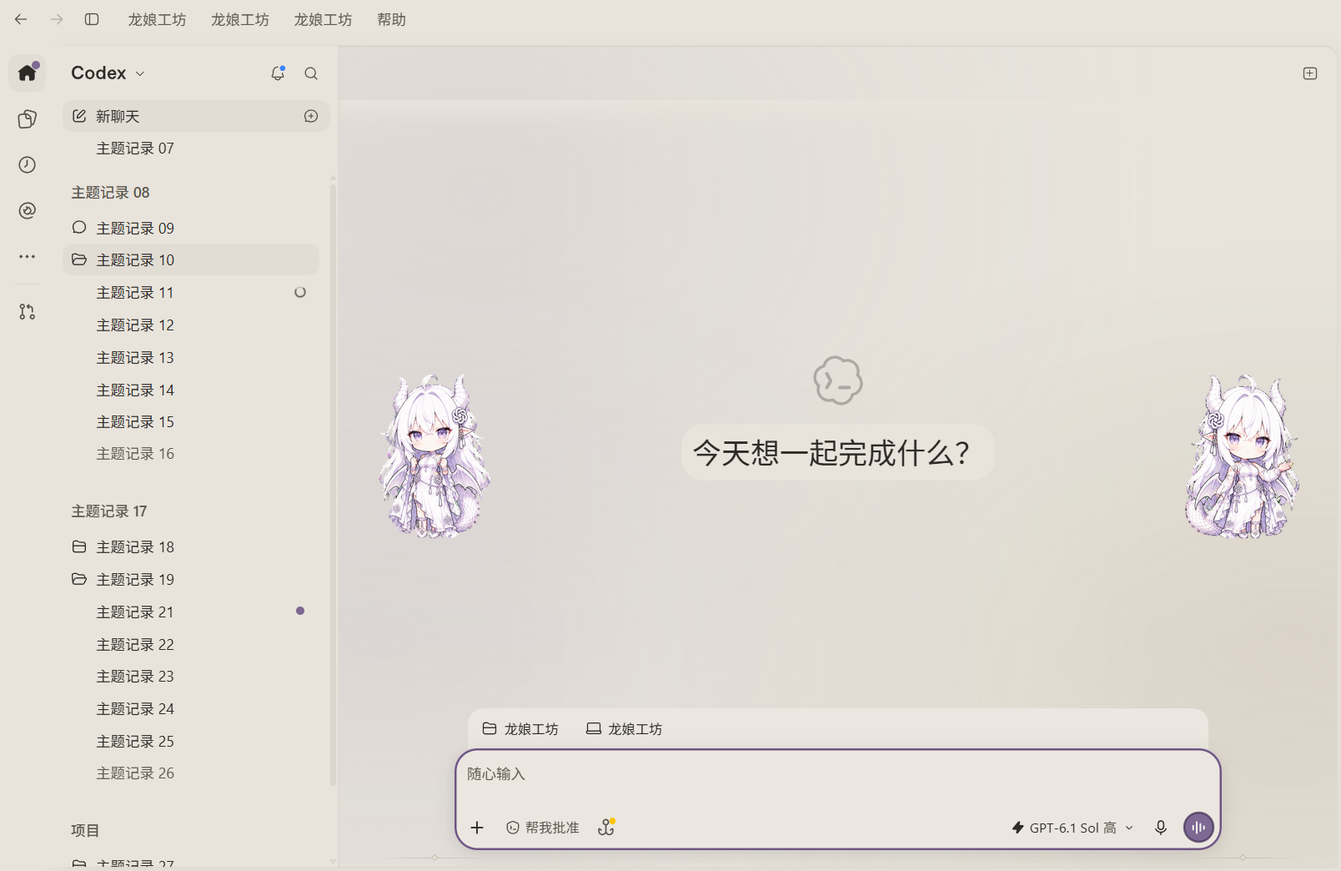
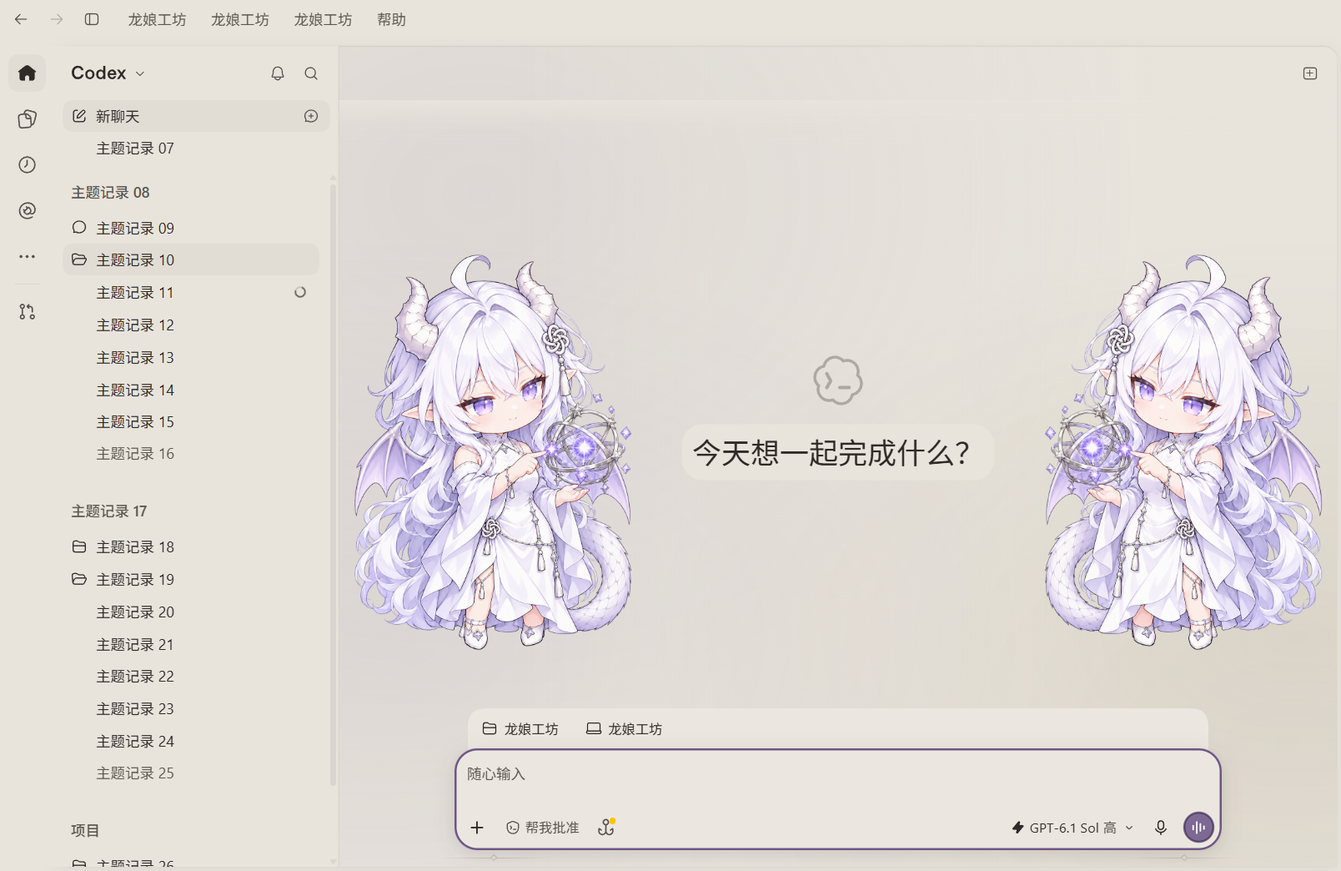
feat: adopt licensed HD chibi artwork with inward composition

Changed region(s): [[0.7774, 0.2759, 0.995, 0.7663], [0.2488, 0.2759, 0.4664, 0.7663]]

diff --git a/src/atelier.css b/src/atelier.css
@@ -36,9 +36,9 @@ html[data-dragon-atelier] [data-da-part=main] pre {background-color:var(--da-cod
 }
 #dragon-atelier-scene * {pointer-events:none !important;}
 #dragon-atelier-scene::after {content:'';position:absolute;inset:0;pointer-events:none;background:linear-gradient(90deg,transparent 18%,color-mix(in srgb,var(--da-background) 18%,transparent) 38%,color-mix(in srgb,var(--da-background) 18%,transparent) 62%,transparent 82%);}
-#dragon-atelier-scene .da-dragon {position:absolute;width:var(--da-character-width,192px);aspect-ratio:192/208;background-repeat:no-repeat;background-size:800% 1100%;background-position:0 0;--da-art-opacity:.96;--da-art-thread-opacity:.78;image-rendering:auto;filter:none;opacity:var(--da-art-opacity);}
+#dragon-atelier-scene .da-dragon {position:absolute;width:var(--da-character-width,280px);aspect-ratio:941/1672;background-repeat:no-repeat;background-size:100% 100%;background-position:center;--da-art-opacity:.96;--da-art-thread-opacity:.78;image-rendering:auto;filter:none;opacity:var(--da-art-opacity);}
 
-#dragon-atelier-scene .da-right {transform:scaleX(-1);background-position:28.5714285714% 60%;}
+#dragon-atelier-scene .da-right {transform:scaleX(-1);}
 /* Adult companions: mature on the left, younger on the right; consistent rendering. */
 #dragon-atelier-scene[data-da-edition=portrait] .da-dragon {aspect-ratio:941/1672;background-size:100% 100%;background-position:center;--da-art-opacity:.96;--da-art-thread-opacity:.80;transform:none;filter:drop-shadow(0 1px 0 var(--da-characterOutline));mask-image:linear-gradient(0deg,transparent,#000 3%);}
 html[data-da-mode=light] #dragon-atelier-scene[data-da-edition=portrait] .da-dragon {--da-art-opacity:.96;--da-art-thread-opacity:.80;}

diff --git a/src/renderer.js b/src/renderer.js
@@ -90,7 +90,7 @@
     // Natural adult-height difference; no exaggerated giant/small hierarchy.
     const nativeCap=portrait?Math.min(...CONFIG.pixelHeights)/devicePixelRatio:Infinity;
     const portraitHeight=portrait?Math.min(box.height*(home?.87:.66),box.width*.37/Math.max(...CONFIG.aspects),nativeCap):0;
-    const qWidth=Math.min(home?280:240,box.width*.32,box.height*(home?.60:.46)*CONFIG.cellAspect,Math.max(0,readingFloor-24)*CONFIG.cellAspect,CONFIG.cellPixels/devicePixelRatio);
+    const qWidth=Math.min(home?300:260,box.width*.32,box.height*(home?.60:.46)*CONFIG.cellAspect,Math.max(0,readingFloor-24)*CONFIG.cellAspect,CONFIG.cellPixels/devicePixelRatio);
     const heights=portrait?[portraitHeight,portraitHeight*.94]:[qWidth/CONFIG.cellAspect,qWidth/CONFIG.cellAspect];
     const widths=portrait?CONFIG.aspects.map((aspect,i)=>heights[i]*aspect):[qWidth,qWidth];
     // Chibi faces sit along the chat's horizontal middle, wholly above input.

diff --git a/tests/browser-regression.py b/tests/browser-regression.py
@@ -37,7 +37,7 @@ for edition in ['q','portrait']:
   if edition=='q':
    composer_top=page.locator('[data-composer-surface-variant]:visible').first.bounding_box()['y']
    assert max(f['bottom'] for f in figures)<=composer_top-27,'Chibi artwork must clear the composer visually'
-  assert page.locator('.da-left').evaluate('e=>getComputedStyle(e).backgroundImage')!=page.locator('.da-right').evaluate('e=>getComputedStyle(e).backgroundImage') if edition=='portrait' else page.locator('.da-left').evaluate('e=>getComputedStyle(e).backgroundPosition')!=page.locator('.da-right').evaluate('e=>getComputedStyle(e).backgroundPosition')
+  assert page.locator('.da-left').evaluate('e=>getComputedStyle(e).backgroundImage')!=page.locator('.da-right').evaluate('e=>getComputedStyle(e).backgroundImage') if edition=='portrait' else page.locator('.da-left').evaluate('e=>getComputedStyle(e).transform')=='none' and page.locator('.da-right').evaluate('e=>getComputedStyle(e).transform')=='matrix(-1, 0, 0, 1, 0, 0)'
   idle=page.evaluate('window.__rafCount');page.wait_for_timeout(350)
   assert page.evaluate('window.__rafCount')-idle<=1,'Owned mutations caused a continuous repaint loop'
   assert page.evaluate('getComputedStyle(document.body).getPropertyValue("--color-text-danger")')==color
@@ -68,7 +68,7 @@ for edition in ['q','portrait']:
   assert page.evaluate('window.__DRAGON_ATELIER__.status.context')=='thread'
   assert page.evaluate('window.__DRAGON_ATELIER__.status.characters')==2
   page.emulate_media(reduced_motion='reduce');page.wait_for_timeout(100)
-  assert page.locator('.da-dragon').first.evaluate("e=>getComputedStyle(e).backgroundSize")==('100% 100%' if edition=='portrait' else '800% 1100%')
+  assert page.locator('.da-dragon').first.evaluate("e=>getComputedStyle(e).backgroundSize")=='100% 100%'
   assert page.locator('#dragon-atelier-scene').evaluate('e=>e.inert') is True
   # Settings keep color roles while artwork hides.
   page.evaluate("()=>{const s=document.createElement('section');s.setAttribute('data-settings-panel-slug','appearance');s.style.cssText='width:400px;height:200px';document.body.append(s)}")
@@ -100,9 +100,9 @@ for edition in ['q','portrait']:
    assert scaled.evaluate('window.__DRAGON_ATELIER__.status.devicePixelRatio')==scale
    boxes=scaled.locator('.da-dragon').evaluate_all('els=>els.map(e=>({height:e.getBoundingClientRect().height,width:e.getBoundingClientRect().width}))')
    for box in boxes:
-    assert box['height']*scale<=1672+1 if edition=='portrait' else box['width']*scale<=192+1,'Artwork must not upscale beyond its native cell pixels'
+    assert box['height']*scale<=1672+1 and box['width']*scale<=941+1,'Artwork must not upscale beyond its native pixels'
    scaled.set_viewport_size({'width':850,'height':900});scaled.wait_for_timeout(100)
    assert scaled.evaluate('window.__DRAGON_ATELIER__.status.characters')==0
    scaled.evaluate('window.__DRAGON_ATELIER__.dispose()');context.close()
   browser.close()
-  print(json.dumps({'edition':edition,'fixtureChecks':['autoScheme','nativeStatusColor','narrowHide','chatBackgroundParent','nativeMenuTier','edgeControlClick','columnResize','staticDistinctPoses','idleObserver','cachedRouteVisibility','threadBackground','reducedMotion','inert','adultProportionsOrEqualQ','nativeInnerFrame','visiblePseudoPlaceholder','chibiInputClearance','settingsPalette','forcedColorsFallback','missingAnchorFallback','unsupportedHost','restore','localNavigationTextAlias','nativePixelCaps'],'deviceScaleFactors':[1,1.25,1.5,2],'passed':True}))
+  print(json.dumps({'edition':edition,'fixtureChecks':['autoScheme','nativeStatusColor','narrowHide','chatBackgroundParent','nativeMenuTier','edgeControlClick','columnResize','staticArtworkAndInwardQ','idleObserver','cachedRouteVisibility','threadBackground','reducedMotion','inert','adultProportionsOrEqualQ','nativeInnerFrame','visiblePseudoPlaceholder','chibiInputClearance','settingsPalette','forcedColorsFallback','missingAnchorFallback','unsupportedHost','restore','localNavigationTextAlias','nativePixelCaps'],'deviceScaleFactors':[1,1.25,1.5,2],'passed':True}))

diff --git a/docs/VALIDATION.md b/docs/VALIDATION.md
@@ -7,14 +7,14 @@
 - 根与自有区域 85 个绑定实测匹配，发送按钮 default/hover/active 视觉色通过；active 使用 CDP 强制伪类，没有点击发送。菜单进入时即获色表；设置保留配色且人物为 0。
 - 真实会话采用 flex-col-reverse，scrollTop 可为负。滚轮验收开始位置移至可滚范围中部，避免把触及边界判为卡死；两版、两模式实际鼠标滚轮与输入点击均通过，恢复原滚动位置。
 - 4 项色表测试，指定 9 个阅读表面的文字最低深 4.627:1 / 浅 4.592:1，功能边界/焦点最低深 3.837:1 / 浅 3.351:1。不是全客户端 WCAG 或全部像素认证。
-- 两版各 24 类浏览器回归：自动模式、原生语义、窄列、聊天首层舞台、菜单进入动画、边缘点击、侧栏挤占、静态不同姿态、空闲观察器、缓存路由、会话、减少动态效果、inert、自然成人差异或等大Q、内框、伪元素、Q输入空隙、设置、高对比度、缺失锚点、未知定位主区域、恢复、局部导航别名、原生像素上限。
+- 两版各 24 类浏览器回归：自动模式、原生语义、窄列、聊天首层舞台、菜单进入动画、边缘点击、侧栏挤占、静态立绘与Q朝内方向、空闲观察器、缓存路由、会话、减少动态效果、inert、自然成人差异或等大Q、内框、伪元素、Q输入空隙、设置、高对比度、缺失锚点、未知定位主区域、恢复、局部导航别名、原生像素上限。
 - 模拟 DPR1/1.25/1.5/2 均验证人物不超过原像素并在窄列隐藏。实际系统缩放与多显示器未逐项切换，不能把模拟称为实机多屏验收。
-- 用户否定的新生成 Q 已撤回，不构建或打包。Q 原图字节未改，单格192×208；125%时最大153.6 CSS px，没有靠插值放大冒充高清。正常两张941×1672透明衍生图来源、alpha、SHA256和提示词有记录。
+- 用户否定的新生成 Q 已撤回，不构建或打包。最新使用ApprenTice941×1672高清Q透明衍生，当前首页265.754 CSS px，CSS原向/镜像朝内；原图字节未改，旧192×208图集归档，不插值放大冒充高清。正常两张941×1672透明衍生图来源、alpha、SHA256和提示词有记录。
 - 最新预览临时替换文本节点后恢复，保留真实字体/表面/控件，逐张查看；匿名原始 API 请求、配置、账户资料、故障日志均不进入仓库或包。
 
 Opus 补充评审：授权项目 CSS、色表、匿名截图；首次长回复 max_tokens，A–G保留，第二次仅补齐H且正常 end_turn。原文已合并保存《可读性与双角色实施指导》。返回模型标识不能独立证明底层身份；边界对比度、CSS选择器、素材像素及用户审美反馈均由本地再次核验。
 
-限制：实际外观/通用设置未复现大块不透明近白面；用户补充主要指人物分辨率和锯齿，不能报告不明控件白底已彻底修复。原Q像素限制、正常生成图审美、未来客户端、全部语法高亮、长期内存、真实高对比度和多屏仍有未验收范围。历史桌面中心遮挡未复现，根因未确认。
+限制：实际外观/通用设置未复现大块不透明近白面；用户补充主要指人物分辨率和锯齿，不能报告不明控件白底已彻底修复。高清Q原像素级alpha边缘、正常生成图审美、未来客户端、全部语法高亮、长期内存、真实高对比度和多屏仍有未验收范围。历史桌面中心遮挡未复现，根因未确认。
 
 ---
 
@@ -37,7 +37,7 @@ Opus 补充评审：授权项目 CSS、色表、匿名截图；首次长回复 m
 
 ## 自动检查与素材
 
-- 每版 16 类浏览器行为回归通过：自动明暗、语义状态色、窄列/侧面板挤占退让、聊天内 z0 舞台、菜单层级、边缘控件点击、静态不同姿态、空闲无持续重绘、缓存旧路由、会话背景、减少动态效果、inert、缺失锚点、未知定位主区域降级、恢复。
+- 每版 16 类浏览器行为回归通过：自动明暗、语义状态色、窄列/侧面板挤占退让、聊天内 z0 舞台、菜单层级、边缘控件点击、静态立绘与Q朝内方向、空闲无持续重绘、缓存旧路由、会话背景、减少动态效果、inert、缺失锚点、未知定位主区域降级、恢复。
 - 3 项配色测试通过，并独立重算最终色值、核对 CSS 与 tokens 一致。深色正文/次要文字在定义表面最低 10.295 / 5.945，浅色最低 9.121 / 4.662；焦点色对面板 6.569 / 5.353。装饰边线不声明满足 3:1；未据此声称每个实际像素或全部原生控件已逐一测量。
 - Q 原始图集字节未变；正常立绘原图与透明成品均有来源、尺寸、SHA256。透明成品 RGBA、四角 alpha=0，白色人物区域保持不透明填色；做了背景处理，不声称像素完全一致。
 - 构建和包装使用明确白名单，私有 evidence、用户配置和认证材料不进入包。
@@ -90,3 +90,5 @@ Opus 补充评审：授权项目 CSS、色表、匿名截图；首次长回复 m
 ## 未验证范围
 
 macOS、Linux、其他 Codex 版本、不同缩放比例、多显示器、跨客户端升级、宽会话的实机双角色显示。新版本优先使用原生配色；角色节点不匹配时自动关闭。发布为 Beta，不承诺全版本兼容。
+
+本轮滚轮检查曾因固定500ms等待失败。关闭主题的对照同样出现延迟，最终原生/有主题均能滚动；一次CDP输入及观察序列总用时约6.0s/5.1s，包含协议与调用等待，不等于纯用户界面延迟测量。后续验收逐次读取实际位移，避开嵌套工具输出滚动区；功能检查不证明不存在性能问题，也不证明历史桌面遮挡已修复。

diff --git a/assets/GENERATED_PROMPTS.md b/assets/GENERATED_PROMPTS.md
@@ -1,6 +1,6 @@
 # 使用状态
 
-正常立绘两张为可选生成衍生素材；第三项 Q 图集已因用户反馈撤回，未进入构建、仓库成品或发行包。以下保留生成提示词以便追溯，生成像素数量不等于画质或审美认可。
+正常立绘两张为可选生成衍生素材；第三项Q图集已因用户反馈撤回，未进入构建、仓库成品或发行包。当前Q使用作者公开高清图的背景去除衍生，提示词在后半部分；第二次alpha精修未采用。以下保留生成提示词以便追溯，生成像素数量不等于画质或审美认可。
 
 # 2026-10-08 生成素材提示词
 
@@ -17,3 +17,11 @@ Use case: stylized-concept. Asset type: one transparent full-body character cuto
 ## 高清 Q 版两帧图集
 
 Use case: stylized-concept. Asset type: ONE transparent high-resolution two-frame static chibi sprite atlas for an elegant GPT dragon desktop theme. Create a wide horizontal landscape canvas, ideally 2048px wide by 1024px high. The atlas has exactly TWO equal-width invisible cells side by side: each cell contains one full-body super-deformed cute ADULT fantasy dragon-woman pose of the SAME character, no borders or visible dividers. Left cell: friendly composed open palm greeting toward the right; right cell: bright intelligent expression holding a small plain notebook and a pen and looking toward the left. Both poses have identical overall body and head scale, full bodies with all horns, tail and feet inside their own cell, center each precisely within each half, 6% clear transparent padding at cell edges, do not overlap cells. Small chibi bodies and larger heads are a stylized rendering of an adult character, not a child, no school clothing. Identity: snow-white long hair with lavender inner shading, curved ivory-gray segmented dragon horns, pointed ears, amethyst-violet eyes, a silver interwoven flower hair clasp, white and very pale lavender high-neck floor-length formal dress with restrained silver trim and small interwoven flower clasps at the waist, long draped sleeves, silver-white shoes, compact folded lavender dragon wings and a single light scaled dragon tail. Dress fully covers the body; elegant, helpful, no revealing styling. Match clean anime cel illustration, precise dark muted-violet linework with confident readable outside outline, crisp fine hair and face details, separate soft cool shadow planes in the white dress, high local contrast, delicate tasteful texture, restrained pastel violet accents. Artwork must be sharp at 220–260px display width per cell; avoid fuzzy upscaling, washed-out body opacity, fog, bloom, blur or flat white silhouettes. Output real alpha-transparent PNG, no white/black background, no checkerboard printed pattern, no floor or shadows, no text, captions, labels, logos or watermarks, no third character, no additional frames, no scenery.
+
+## Published HD chibi background removal (current)
+
+Use case: precise-object-edit. Edit target: the supplied ApprenTice ChatGPT-Chibi illustration. Create a true transparent RGBA cutout of ONLY the original chibi white-haired dragon girl and the small silver-purple armillary sphere she holds. Preserve the original character's beautiful compact round chibi proportions, exact face and violet eyes, silver-white hair locks, curled scaled gray-white horns, pointed ears, small lavender membrane wings, ONE white scaled tail, white formal dress, two interlaced knot ornaments, tassels, jewelry, shoes, hands and the existing pose. This is BACKGROUND REMOVAL, not a redesign. Remove the lavender backdrop, every background star/orbital line, ground shadow and all background glow. Keep solid pearl-white pixels of the character and opaque silver sphere rings; remove background visible in gaps between hair, wings, tail, hands and sphere rings. Clean smoothly antialiased alpha edges, no pale lavender rectangular fringe, no checkerboard painted into the image, no dark matte, no new outlines, no blur, no extra sharpen noise. Keep the original drawing's fine expressive linework and details. Entire horns, wings, both feet, tail tip and sphere in frame. Transparent background, no text, no watermark. Preserve native resolution and artwork framing; do not add anything.
+
+## Second alpha refinement (not used)
+
+Use case: precise-object-edit. Image 1 is the original high-resolution ApprenTice ChatGPT chibi artwork, definitive reference for ALL character drawing. Image 2 is a first transparent cutout attempt; use it only to see which background must disappear, NOT as a style reference. Deliver a refined TRUE RGBA transparent cutout with the exact same appealing face, round head and tiny body, dress, hair, scaled horns, small wings, single tail, silver orbital sphere, hands and feet. Main correction: eliminate stray isolated white/lavender/magenta pixels and ragged fringe around the alpha silhouette. Use clean softly antialiased natural edges with continuous linework, not a hard threshold or pixelated selection. No opaque halo, no lavender paper fragments between hair locks or wings or sphere gaps, no background stars, no glow outside the sphere, no ground shadow. Do not sharpen or redraw the face or add anatomical or cloth detail. Reframe the complete original subject slightly smaller within the same portrait canvas: leave about 5 percent transparent margin on the LEFT and RIGHT and at least 5 percent above every horn/hair curl and below both feet; entire wings, sphere and tail MUST fit, no element touching a canvas edge. White hair, white dress and white tail stay filled opaque white. The original illustration is already excellent: preserve its design and expression, only remove background and improve alpha boundary and framing. No text, no rectangular background, no checkerboard, no watermark.

diff --git a/docs/可读性修订实施记录.md b/docs/可读性修订实施记录.md
@@ -1,12 +1,12 @@
 # 可读性与人物清晰度修订 · 2026-10-08
 
-本记录对应 v0.1.0-beta.3；《可读性与双角色实施指导》是模型建议，本文件和源码才是实际实现。用户指出的新生成 Q 版观感诡异、边缘有锯齿，已撤回该素材，未进入构建或发布包。原图、生成候选和施工前备份均保留。
+本记录对应 v0.1.0-beta.3；《可读性与双角色实施指导》是模型建议，本文件和源码才是实际实现。用户指出的新生成 Q 版观感诡异、边缘有锯齿，已撤回该素材，未进入构建或发布包。原图、生成候选和施工前备份均保留。用户随后要求更高清、更大且朝内；现已采用 ApprenTice 公开高清Q原图的透明衍生，详见《高清Q素材与排布》。
 
 ## 已定位的问题与实现
 
 | 实际原因 | 修订 |
 |---|---|
-| 原 Q 图集虽为 1536×2288，单格只有 192×208；放大到 280px 不能获得更多细节 | 恢复 fywdy 原版两个静态姿态，限制物理宽度不超过 192px，位置对齐物理像素，不重新编码素材 |
+| 原 Q 图集虽为 1536×2288，单格只有 192×208；放大到 280px 不能获得更多细节 | 早期恢复原版并限制192px；现改为941×1672公开高清Q的透明衍生，仍限制原像素与对齐物理位置 |
 | 低透明度、brightness/saturate 与中央遮罩叠加，使人物更糊 | 移除调暗/去饱和滤镜；首页 .96、会话 Q .78 / 正常立绘 .80；中央遮罩降到 18% |
 | contenteditable 的 placeholder 实际由 p.placeholder[data-placeholder]::before 生成，并有 .5 opacity | 实际伪元素使用实色与 opacity:1，保留字体指标 |
 | 外层 composer 没有圆角，内层 [data-composer-body] 才有原生 22px 圆角 | 外层透明且无阴影；描边、实体底色和焦点环作用于内层，不另设圆角/尺寸 |
@@ -22,7 +22,7 @@
 
 正常立绘为用户确认的“年轻成年 / 成熟成年，两种气质”。参考实际 DSH Maid Atelier 两图的相向视线、左侧展开手势、右侧记事姿态及共同落脚线，不照搬少女/更幼小角色或 Flash/Pro 模型关系。右侧高度为左侧的 .94，保持自然差异，避免巨人/小人式悬殊。两张 941×1672 透明生成衍生图保留原设服装和来源署名，不绑定官方模型。
 
-Q 版恢复原作两个姿态，保持等大，位于聊天区横向中部，底边至少高于输入框 28px。125% 屏幕缩放时单图上限 153.6 CSS px；200% 时上限 96 CSS px。因此会比旧放大展示更小，这是原素材像素的真实限制，不将小图放大冒称高清。新生成 Q 候选没有成为成品；今后想要更大的 Q 展示，需要作者提供更高分辨率原素材或另行认可的精修，单靠生成更多像素不能保证更好观感。
+Q版现用ApprenTice公开的941×1672原图去背景，左原向右、右CSS镜像向左，同姿态朝内布局、等大；不是两张独立动作。当前首页宽265.754 CSS px，较原192px帧的153.6 CSS px更大，且输入保持28px空隙。作者提示词与图像已检索核对，不再照搬此前被否定的生成Q。详见[高清Q素材与排布](高清Q素材与排布.md)。
 
 ## Opus 建议的核验与取舍
 
@@ -36,6 +36,8 @@ Q 版恢复原作两个姿态，保持等大，位于聊天区横向中部，底
 
 实际当前 Store Codex 26.1002.6548.0、Node 24.16.0、屏幕 DPR 1.25。轻量配色真实导入；两版、两模式首页/输入/菜单/设置/移除/聊天滚轮检查，另外按实际 DOM 检查占位符 opacity、输入框圆角、侧栏文字和发送按钮视觉状态，不发送消息。模拟缩放覆盖 100%、125%、150%、200%，不能代替实际多屏及操作系统缩放切换。完整范围见 VALIDATION。
 
-用户进一步说明白色周边主要指低分辨率和边缘锯齿；没有证实某个原生控件固定残留白底。外观/通用设置检查未复现大块近白不透明表面，不据此宣称全部白底问题已修复。原 Q 素材本身像素较少，限制放大减少损失，不能凭 CSS 恢复缺失细节。正常生成立绘仍是候选同人画，不把自动检查通过当作用户审美认可。
+用户进一步说明白色周边主要指低分辨率和边缘锯齿；没有证实某个原生控件固定残留白底。外观/通用设置检查未复现大块近白不透明表面，不据此宣称全部白底问题已修复。旧Q素材本身像素较少，已换为公开高清图的透明衍生，不能凭CSS恢复旧帧缺失的细节。新cutout仍有低alpha边缘像素，实际大小检查未见明显亮边，不声称任意放大都完美。正常生成立绘仍是候选同人画，不把自动检查通过当作用户审美认可。
 
 历史屏幕中心置顶覆盖没有复现或找到可证明的故障现场。主题只在聊天 DOM 内放置 inert、pointer-events:none 的 z0 背景，不创建桌面置顶层；历史开屏播放器原因仍未证实。
+
+本轮滚轮检查曾因固定500ms等待失败。关闭主题的对照同样出现延迟，最终原生/有主题均能滚动；一次CDP输入及观察序列总用时约6.0s/5.1s，包含协议与调用等待，不等于纯用户界面延迟测量。后续验收逐次读取实际位移，避开嵌套工具输出滚动区；功能检查不证明不存在性能问题，也不证明历史桌面遮挡已修复。

diff --git a/docs/高清Q素材与排布.md b/docs/高清Q素材与排布.md
@@ -1,0 +1,26 @@
+# 高清 Q 素材与排布 · 2026-10-08
+
+用户进一步要求查找已公开高清素材、保留画风与细节、不必复刻固定动作，适度放大 Q 版并朝内。以下替代本轮早期“只限制原192px帧大小”的方案；早期生成Q候选仍未采用。
+
+## 检索与授权
+
+- [fywdy 仓库](https://github.com/fywdy/chatgpt-chibi-pets)：现场核验 main 仍为 d5bbb27c79e5c08e8b8ab44d4023cd35a67418e2，当前 Release 为 v1.0.0，没有在本次检查中找到更高分辨率的单角色源帧。1536×2288 是8×11图集，单格192×208；不是单人物高清。
+- [ApprenTice 高清 Q 原图](https://github.com/Apprentice-Geo/AI-Fanworks/blob/e815a9726b928063c40ef59f55e585169daafb0c/ApprenTice/images/ChatGPT-Chibi.png)：原文件1924563字节、941×1672、RGB，有背景。原图归档字节未改。
+- [作者目录授权](https://github.com/Apprentice-Geo/AI-Fanworks/blob/e815a9726b928063c40ef59f55e585169daafb0c/ApprenTice/README.md)：其改编 images 按 CC BY-NC-SA 4.0，署名 ApprenTice 与原设 ZipZipPipe，底层 GPT 角色取用边界仍依 NOTICE 区分，不能扩大原设授权。
+- [作者提示词与流程](https://github.com/Apprentice-Geo/AI-Fanworks/blob/e815a9726b928063c40ef59f55e585169daafb0c/ApprenTice/Prompt.md)：提供独立 Chibi 风格和 GPT 角色提示。已在本机保存全文作为参考，不把整份约130KB提示词重新打包发布。要点为约1.75头身、圆润短身体、清晰外轮廓与简化内部结构，保留白发、淡紫眼、两枚交织饰物、小膜翼、单龙尾和礼服分区。
+
+## 实际采用
+
+采用已公开高清原图做背景去除，保留其脸、服装、手势和星仪关系，而非重新设计身材。imagegen透明结果仍为941×1672，四角alpha为0；没有声称前景像素完全未变。第一遍仅有低alpha色噪，实际明暗窗口缩小显示后未看到明显亮边；第二遍精修产生少数高alpha彩色像素，反而未采用。原图、候选均留存，不将alpha存在当作全部边缘完美证明。
+
+两侧用同一幅高清图作对称构图：左侧不翻转、角色及星仪向右；右侧CSS翻转、角色及星仪向左。是同姿态朝内试排，不虚称两张独立动作或两种年龄的Q图。Q版与正常成年双气质版单独提供。
+
+首页按实际聊天区域和输入边界计算，最大宽300 CSS px，会话上限260；当前1608×1044窗口、DPR1.25时实际每幅265.754 CSS px。原像素上限仍保留，但不再受192px桌宠帧限制。位于聊天区域纵向中部的同一横线，完整图盒底部至少距输入框28px；聊天列不足700px/高度不足时隐藏。没有设置横跨桌面的窗口层。
+
+## 验证与边界
+
+两种模式实际匿名预览逐张查看，脸/眼/服装、双翼、单尾、饰件及星仪可辨，输入与主标题分层。132个实际命中点不由舞台接收事件，文字/背景/原生字体未被截图遮盖重绘。两版输入、菜单、设置、恢复及真实滚轮、24类模拟回归及DPR1/1.25/1.5/2逻辑检查另记在VALIDATION。
+
+这仍为实验性背景去除衍生；原作者人物图的画风比上一轮自行生成Q更接近参考，但最终审美取舍由用户判断。没有承诺alpha在任意原始像素级放大都无噪点，不使用插值放大低分辨率帧冒称高清。
+
+本轮滚轮检查曾因固定500ms等待失败。关闭主题的对照同样出现延迟，最终原生/有主题均能滚动；一次CDP输入及观察序列总用时约6.0s/5.1s，包含协议与调用等待，不等于纯用户界面延迟测量。后续验收逐次读取实际位移，避开嵌套工具输出滚动区；功能检查不证明不存在性能问题，也不证明历史桌面遮挡已修复。

diff --git a/NOTICE.md b/NOTICE.md
@@ -8,7 +8,7 @@ Codex Dragon Atelier 原创代码、配色与集成：NoelCornel，2026，MIT。
 
 - 原角色设计：**ZipZipPipe**（Pixiv 用户 18604994）。第一方来源：《AI娘化》，https://www.pixiv.net/artworks/148186519 。作者取用说明为「作为保存用，方便所有人取用，需要标注作者，不可商用。」
 - 该帖关于 DeepSeek 娘的 CC BY-NC-SA 4.0 说明，不能自动套用于 GPT 龙娘。GPT 原设的说明没有完整列出所有衍生创作、再授权情形，本项目不声称取得额外独占授权。
-- 本项目使用 **fywdy / chatgpt-chibi-pets** 已公开的白发龙娘 Q 版素材，保持文件字节不变，当前Q版仅在界面中按原像素限制缩放、镜像，使用两个静态帧，不重新编码。上游说明该素材由生成式图像工具产出并经人工筛选、拼接与修复；不是本项目重新绘制的角色。
+- 本项目归档 **fywdy / chatgpt-chibi-pets** 已公开的白发龙娘Q版素材，当前高清Q另见末节，保持文件字节不变，此前Q版仅在界面中按原像素限制缩放、镜像，使用两个静态帧，不重新编码。上游说明该素材由生成式图像工具产出并经人工筛选、拼接与修复；不是本项目重新绘制的角色。
 - 上游美术许可：**CC BY-NC 4.0**。完整文本见 `LICENSES/Artwork-CC-BY-NC-4.0.txt`；保留其非官方声明 `LICENSES/Upstream-Pets-NOTICE.md`。来源固定到提交 `d5bbb27c79e5c08e8b8ab44d4023cd35a67418e2`，每个图像的路径、Git blob 与 SHA256 见 `assets/SOURCES.json`。
 - 上游许可不扩大原设权利，不是 OpenAI 品牌或商标许可。角色整体使用遵守署名、非商业条件。权利人可通过本仓库 Issues 提出素材问题。
 
@@ -42,4 +42,8 @@ Codex 官方文档支持原生明暗配色、字体设置与主题分享：https
 - `dragon-young-generated-v1.png`：参考 ZipZipPipe 原设及前项生成图，通过 imagegen 生成的年轻成年、右侧记事姿态透明衍生图，941×1672。
 - 原设署名 ZipZipPipe、参考改编署名 ApprenTice、生成方向与集成 NoelCornel。保留 ApprenTice 参考衍生的 CC BY-NC-SA 4.0 条件，并保留底层角色署名、非商业取用限制；这些条款不扩大底层 GPT 原设权利，不声称获得角色额外独占或品牌授权。
 - 两图未经本项目再次栅格编码，尺寸、alpha、哈希、参考文件在 `assets/SOURCES.json` 的 `generatedPortraitSources`。提示词和使用状态见 `assets/GENERATED_PROMPTS.md`。生成式衍生不等于原作者亲绘或官方认可。
-- 新生成 Q 图集被用户否定，已撤回，未放入构建和发行包。当前 Q 使用原 fywdy 图集；图集单格只有192×208，不将整张图集尺寸宣称为单人物高清。
+- 新生成 Q 图集被用户否定，已撤回，未放入构建和发行包。旧fywdy图集单格只有192×208，保留归档，不将整张图集尺寸宣称为单人物高清。
+
+## 最新公开高清 Q 原图与透明衍生
+
+`dragon-chibi-apprentice-original.png` 为 ApprenTice 的公开 ChatGPT-Chibi.png，固定提交 e815a9726b928063c40ef59f55e585169daafb0c，941×1672，归档字节未改。`dragon-chibi-apprentice-cutout-v1.png` 为本项目 imagegen 背景去除衍生，不声称前景像素一致；原图及衍生遵守 CC BY-NC-SA 4.0，署名 ApprenTice、原设 ZipZipPipe、处理与集成 NoelCornel，底层角色边界同上。两侧为同幅图原向/镜像朝内布局。作者提示词只作本机参考，不重新打包整份文件。来源及哈希见 SOURCES 的 highResolutionChibiSources，说明见 docs/高清Q素材与排布.md。

diff --git a/docs/RELEASE_NOTES.md b/docs/RELEASE_NOTES.md
@@ -4,10 +4,10 @@
 
 - 修正真实 contenteditable placeholder 的半透明伪元素，侧栏 nav 的局部半透明紫色别名，以及输入外框/内框错层。实体输入内框保留原生圆角，并加入明确紫色边界和焦点轮廓。
 - 完整语义色表覆盖 85 个核对原生绑定，保留危险/成功/警告/信息/diff/终端色。菜单进入动画期间也及时上色；设置保留主题而隐藏人物。
-- Q 版恢复 fywdy 原图两个静态姿态，居于聊天中部并避开输入。新生成 Q 版被用户否定，未采用。原始单格 192×208，按 DPR 禁止放大，高清/更大展示仍需高分辨率原素材。
+- Q版改用ApprenTice已公开941×1672高清图的透明衍生，左右对称朝内、居于聊天中部并避开输入，当前首页宽约265.75 CSS px。未采用被用户否定的新生成Q；旧192×208帧保留归档。高清图、作者提示词、署名与CC BY-NC-SA 4.0条件均有记录。
 - 正常立绘提供年轻成年/成熟成年两种气质的新透明衍生图，共同落脚、自然高度差；保留 GPT 原设服装与署名，不绑定 Pro/Flash 或官方模型。图像与代码许可分开。
 - 完整 Opus 建议正文及独立核验实施记录均保存在 docs；预览来自当前真实窗口，只匿名替换文字，不用大块底色遮盖制造 UI 差异。
 
 验证：Store Codex 26.1002.6548.0、Node 24.16.0、实际 DPR1.25。4 个色表检查、两版各 24 类模拟行为及 DPR1/1.25/1.5/2 逻辑检查；真实明暗导入、首页/输入/菜单/设置/恢复/会话滚轮。没有发送消息，未改官方安装文件。
 
-这是实验性预发布。Q 原作分辨率仍有限；生成正常立绘的审美尚不能由测试证明；未验证未来客户端、实际多屏/系统缩放切换、长期稳定性及每类语法高亮。历史屏幕中心置顶遮挡没有确认根因，也未声称播放器 EXE 已修复。完整范围见 docs/VALIDATION.md 与 NOTICE.md。
+这是实验性预发布。高清Q透明衍生的原像素级alpha边缘仍可能有低透明度噪点，当前实际大小未见明显亮边；生成正常立绘的审美尚不能由测试证明；未验证未来客户端、实际多屏/系统缩放切换、长期稳定性及每类语法高亮。历史屏幕中心置顶遮挡没有确认根因，也未声称播放器 EXE 已修复。完整范围见 docs/VALIDATION.md 与 NOTICE.md。

diff --git a/docs/主题实施对照.md b/docs/主题实施对照.md
@@ -8,12 +8,12 @@
 | 容器、输入、菜单、链接、按钮状态 | 官方派生 | 85 个核对绑定及局部别名、伪元素修正 | 同左 |
 | 字体指标 | 原生用户设置 | 原生用户设置，文字实色与层级细化 | 同左 |
 | 阅读与背景 | 原生 | 实体输入/正文、克制渐层 | 同左 |
-| 人物 | 无 | fywdy 原版两姿态，等大、中部，按原像素限制 | 成年年轻/成熟两气质，自然 .94 高度差 |
+| 人物 | 无 | ApprenTice高清图，等大、中部、左右朝内，按原像素限制 | 成年年轻/成熟两气质，自然 .94 高度差 |
 | 接入 | 原生导入，无观察进程 | 独立官方客户端、本机 CDP、可恢复 | 同左 |
 | 高对比度/未知结构 | 原生 | 交还原生/退出自有装饰 | 同左 |
 
 原始候选配色独立检查发现 **24** 组文字搭配未达 4.5:1；另一次 Opus 补充色表的功能边界也不足 3:1。实际色值已经修正，不沿用模型未经计算的合规声明。指定实体表面文字与功能边界测试通过，不声称整个客户端认证。
 
-Q 生成候选已因用户反馈撤回。原图集 1536×2288 不意味着单人物高清，单格只有 192×208，125% 缩放上限 153.6 CSS px；仍有原始分辨率限制。正常图与衍生图各自许可见 NOTICE，代码 MIT 不覆盖角色。
+此前Q生成候选仍撤回。最新改为已公开941×1672高清Q原图的透明衍生，同图CSS对称朝内。当前首页宽265.754 CSS px，不再受旧192×208单帧限制。作者提示词和授权已核对；见[高清Q素材与排布](高清Q素材与排布.md)。所有角色素材许可见NOTICE，代码MIT不覆盖角色。
 
 不采用全局 vh、给原生 composer 提高 z-index、未核验哈希 class、全局字号字重改造和跨应用窗口层。使用实际聊天/输入边界、原生内框及伪元素；首页/会话/设置/菜单、移除与滚轮均在当前客户端另行检验。模拟 DPR 1/1.25/1.5/2 只覆盖渲染逻辑，实际多屏与未来版本仍待测。

diff --git a/docs/DESIGN.md b/docs/DESIGN.md
@@ -15,7 +15,7 @@
 
 完整色表 `src/tokens.json` 同时生成 Full CSS 和 Lite 官方分享码。85 个已核对原生绑定加上局部导航别名修正，保留危险、成功、警告、info、diff、终端职责。全局字体指标不改；清晰度通过实体阅读面、实色文字、真实 placeholder 伪元素和轮廓解决。
 
-正常版两位成人气质：左成熟、展开手势，右年轻、记事，相向陪伴、共同落脚，右高度为左 .94，保持自然差异。两张生成衍生透明图实际为 941×1672，保留服装来源署名，未绑定官方模型。Q 版撤回本轮新生成候选，恢复 fywdy 原图集的两个静态姿态，192×208 单格按 DPR 限制不放大，居于聊天区中部、避开输入框至少 28px。两版首页 opacity .96，没有调暗/去饱和滤镜；会话人物减弱，正文使用实体底色，输入与菜单在前。
+正常版两位成人气质：左成熟、展开手势，右年轻、记事，相向陪伴、共同落脚，右高度为左 .94，保持自然差异。两张生成衍生透明图实际为 941×1672，保留服装来源署名，未绑定官方模型。Q 版撤回本轮新生成候选，采用ApprenTice公开941×1672高清Q原图透明衍生，同图原向与CSS镜像朝内，当前首页宽265.754 CSS px，按DPR保留原像素上限，居于聊天区中部、避开输入框至少 28px。两版首页 opacity .96，没有调暗/去饱和滤镜；会话人物减弱，正文使用实体底色，输入与菜单在前。
 
 舞台是可见聊天主面板首子节点：absolute、z0、contain:strict、inert、aria-hidden、pointer-events:none。没有桌面置顶窗口，不改官方安装文件和聊天发送。输入框使用原生内层圆角，不给无圆角外层染色。设置保留配色、隐藏人物；高对比度交还原生。缺失可见锚点或未知定位结构时移除自有装饰；dispose 还原属性并释放监听。
 
